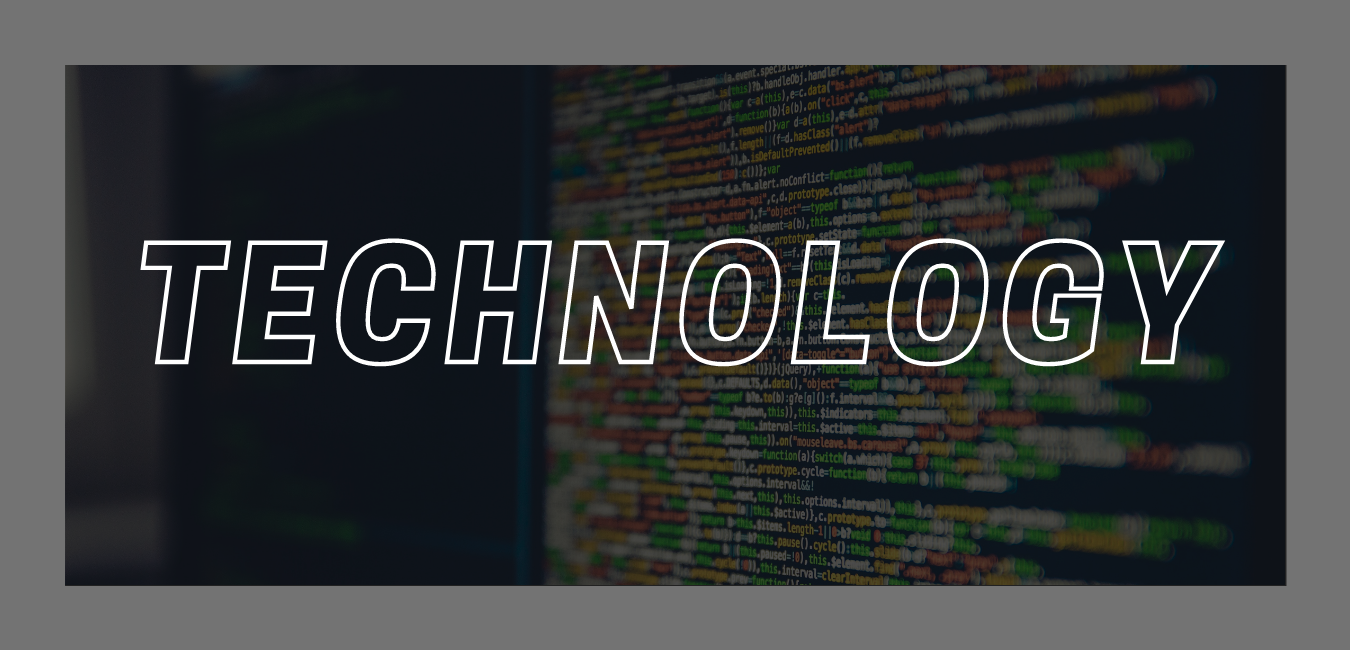
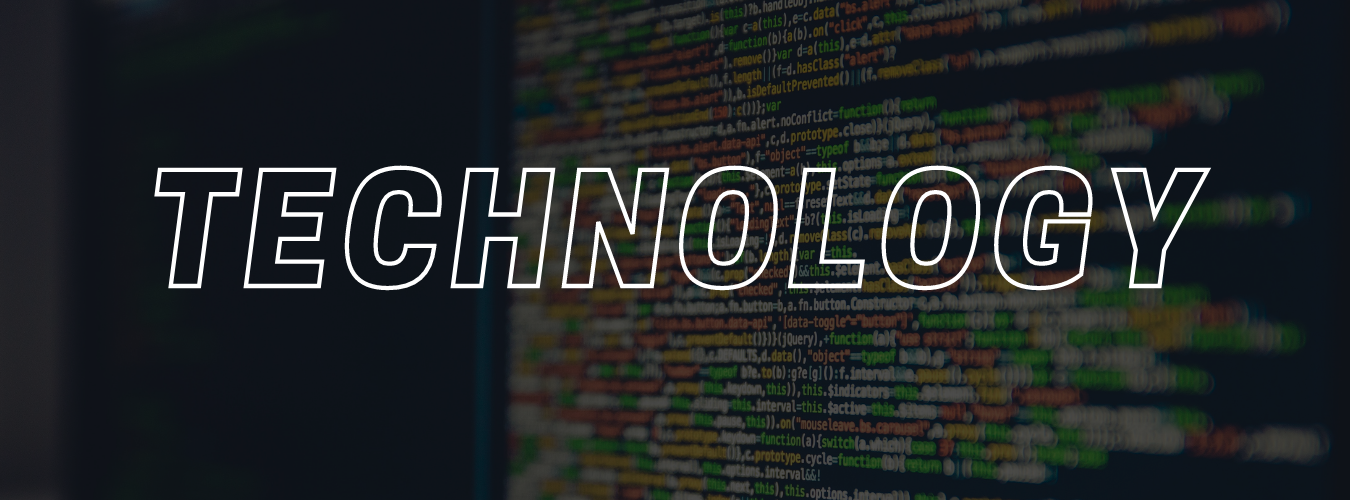
updated sliders

diff --git a/index.html b/index.html
@@ -44,29 +44,29 @@
 
     <main>
       <!-- Carousel START -->
-      <div id="myCarousel" class="carousel slide" data-bs-ride="carousel">
+      <div id="myCarousel" class="carousel slide carousel-fade" data-bs-ride="carousel">
         <div class="carousel-indicators">
           <button type="button" data-bs-target="#myCarousel" data-bs-slide-to="0" class="active" aria-current="true" aria-label="Slide 1"></button>
           <button type="button" data-bs-target="#myCarousel" data-bs-slide-to="1" aria-label="Slide 2"></button>
           <button type="button" data-bs-target="#myCarousel" data-bs-slide-to="2" aria-label="Slide 3"></button>
         </div>
         <div class="carousel-inner">
-          <div class="carousel-item active">
+          <div class="carousel-item active padding">
             <img src="assets/img/1.png" class="d-block mw-100 mh-100" alt="...">
             <div class="carousel-caption d-block">
-              <a href="tech.html" role="button" class="btn btn-light">Browse Content</a>     
+              <a href="tech.html" role="button" class="btn btn-light">Browse Content <i class="fa fa-arrow-circle-right"></i></a>     
             </div>
           </div>
-          <div class="carousel-item">
+          <div class="carousel-item active padding">
             <img src="assets/img/2.png" class="d-block mw-100 mh-100" alt="...">
             <div class="carousel-caption d-block">
-              <a href="photography.html" role="button" class="btn btn-light">Browse Content</a>
+              <a href="photography.html" role="button" class="btn btn-light">Browse Content <i class="fa fa-arrow-circle-right"></i></a>
             </div>
           </div>
-          <div class="carousel-item">
+          <div class="carousel-item active padding">
             <img src="assets/img/3.png" class="d-block mw-100 mh-100" alt="...">
             <div class="carousel-caption d-block">
-              <a href="gaming.html" role="button" class="btn btn-light">Browse Content</a>
+              <a href="gaming.html" role="button" class="btn btn-light">Browse Content <i class="fa fa-arrow-circle-right"></i></a>
             </div>
           </div>
         </div>
@@ -106,7 +106,7 @@
     </section>
     </main>
 
-    <footer class="footer-dark">
+    <footer class="footer-dark bg-dark">
       <div class="container">
           <div class="row">
               <div class="col-sm-6 col-md-3 item">
@@ -135,6 +135,16 @@
       </div>
   </footer>
     <script src="assets/bootstrap/js/bootstrap.min.js"></script>
+    <script>  
+      $(document).ready(function() {  
+         $("#myCarousel").swiperight(function() {  
+            $("#myCarousel").carousel('prev');  
+          });  
+         $("#myCarousel").swipeleft(function() {  
+            $("#myCarousel").carousel('next');  
+         });  
+      });  
+      </script>  
   </body>
 
 </html>

diff --git a/assets/css/Carousel.css b/assets/css/Carousel.css
@@ -1,0 +1,5 @@
+.padding{
+    padding-top: 65px; 
+    padding-left: 7px;
+    padding-right: 7px;
+}
